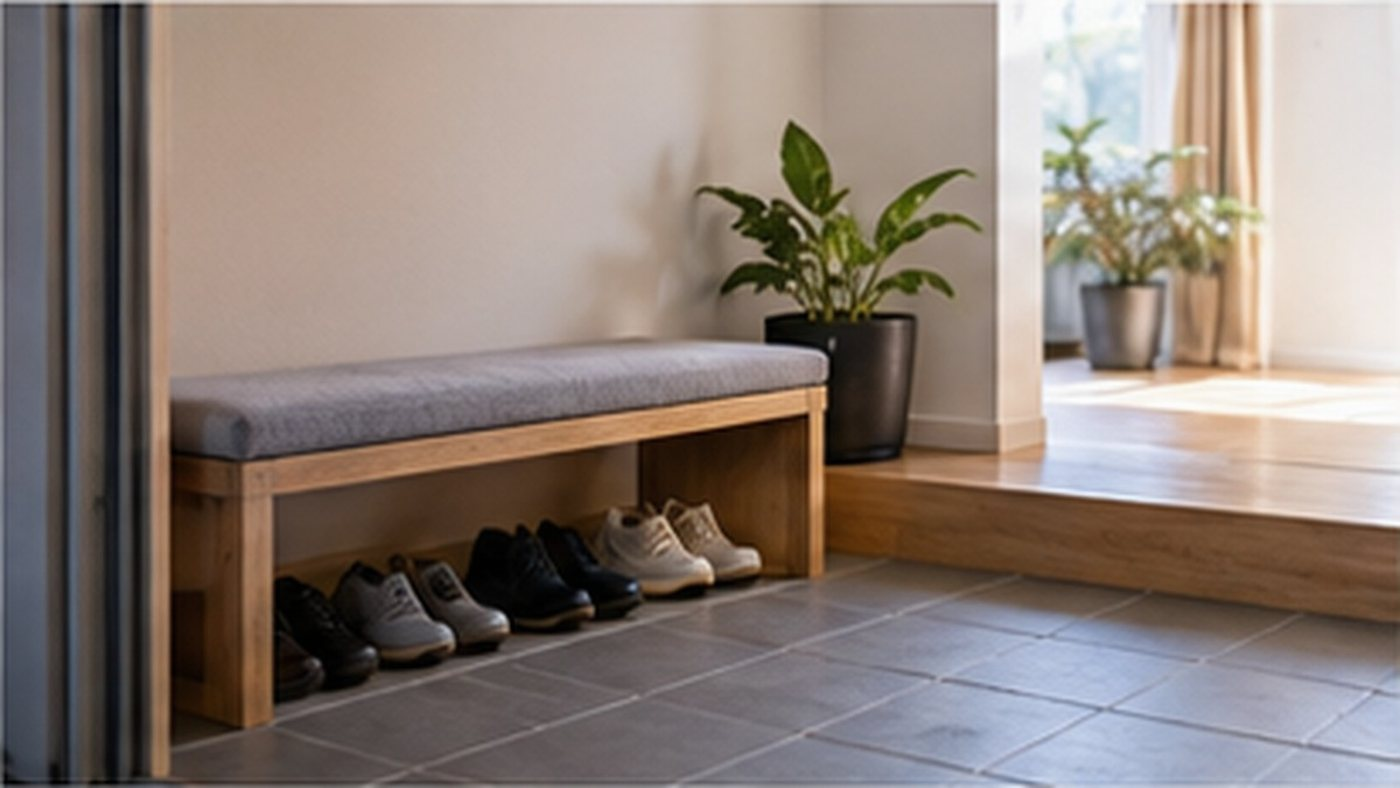
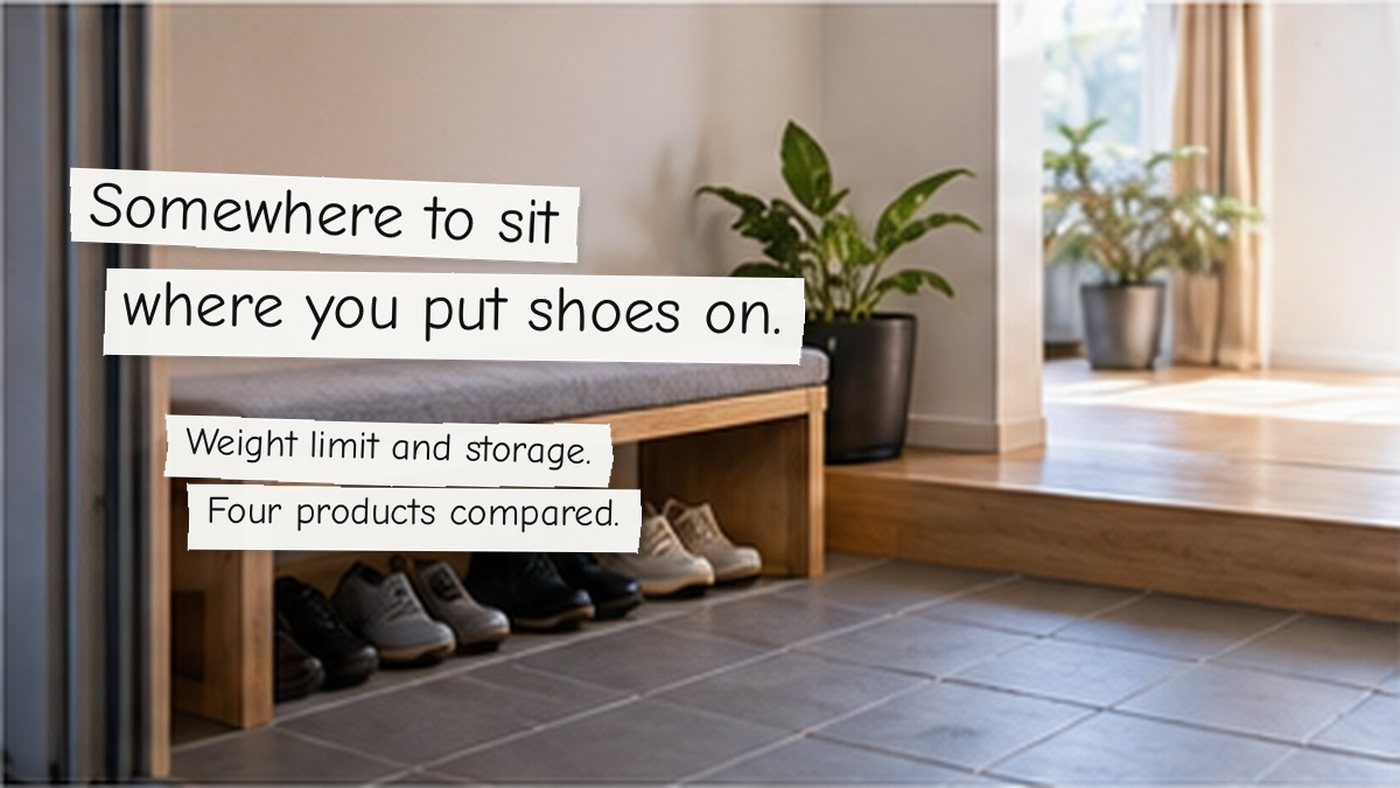
英語版のヒーローを、英語キャッチコピー入り画像に差し替え
C-BLOG-005 の成果物17枚を受領して適用。日本語側と同じ形にそろえた。

- hero-en.jpg 17枚を差し替え、HTMLのコピー重ね表示を削除して alt に移動
- 英文は指示書の表と一字一句一致していることを確認（全17枚を目視）
- 日本語の残りなし・実在ブランドなしも確認

⚠ ChatGPTは「既存の写真を使い回す」という指示に従わず、写真を作り直した。
17枚すべて別の構図になっている。被写体・トーン・品質は日本語版とそろっている
ので実害は「日英を切り替えると写真が変わる」ことだけ。作り直させるとオーナーに
もう1往復かけることになるため、そのまま採用してよいかは判断を仰ぐ。

検査: check-article.py を34ファイルすべてで実行し、全通過。

Claude-Session: https://claude.ai/code/session_018DjcCGqWvG9fnwShRfWehG

Changed region(s): [[0.0307, 0.2132, 0.5836, 0.4873], [0.0921, 0.5178, 0.4607, 0.7005]]

diff --git a/en/articles/genkan-tsupparirack-hikaku.html b/en/articles/genkan-tsupparirack-hikaku.html
@@ -72,8 +72,7 @@
       <p class="article-lead">Comparing entryway tension rod racks by supported height range, weight capacity, and whether drilling is required.</p>
     </div>    <section class="article-hero">
       <div class="article-hero-main">
-        <img src="/assets/articles/genkan-tsupparirack-hikaku/hero-en.jpg" data-photo-source="generated-ok" alt="A floor-to-ceiling tension rack in an entryway, with coats hanging on it" width="1400" height="788">
-        <p class="article-hero-copy">Entryway Tension Rod Rack — Choosing by Ceiling Height and Weight Capacity<small>Heian Shindo RA-11 · Yamazen WJ-321RM Shoe Rack · Hagihara KTR-3148 (80cm wide) · Wall Storage Tension Rack (Width 40/60/80cm)</small></p>
+        <img src="/assets/articles/genkan-tsupparirack-hikaku/hero-en.jpg" data-photo-source="generated-ok" alt="The entryway wall is still empty. Ceiling height and load. Four products compared." width="1400" height="788">
       </div>
       <div class="article-hero-side">
         <div class="article-hero-mini">

diff --git a/en/articles/monohoshi-rack-hikaku.html b/en/articles/monohoshi-rack-hikaku.html
@@ -72,8 +72,7 @@
       <p class="article-lead">Comparing indoor drying racks across folding tower, tension-rod pole-holder, folding panel, and large-capacity multi-function styles.</p>
     </div>    <section class="article-hero">
       <div class="article-hero-main">
-        <img src="/assets/articles/monohoshi-rack-hikaku/hero-en.jpg" data-photo-source="generated-ok" alt="Laundry drying indoors in the light from a window" width="1400" height="788">
-        <p class="article-hero-copy">Indoor Drying Rack — Choosing by Weight Capacity and Storability<small>Yamazaki Jitsugyo Tower 6619 · Heian Shindo TMH-61 · Tenma Panel S (Amazon exclusive) · Iris Ohyama KTM-2018R</small></p>
+        <img src="/assets/articles/monohoshi-rack-hikaku/hero-en.jpg" data-photo-source="generated-ok" alt="Open it on laundry day, fold it away after. Load capacity and folding. Four products compared." width="1400" height="788">
       </div>
       <div class="article-hero-side">
         <div class="article-hero-mini">

diff --git a/en/articles/closet-storage-case-hikaku.html b/en/articles/closet-storage-case-hikaku.html
@@ -72,8 +72,7 @@
       <p class="article-lead">Comparing closet storage cases across hard plastic drawer, foldable container, and non-woven soft types, focusing on stackability.</p>
     </div>    <section class="article-hero">
       <div class="article-hero-main">
-        <img src="/assets/articles/closet-storage-case-hikaku/hero-en.jpg" data-photo-source="generated-ok" alt="Inside a closet, with folded clothes and stacked storage cases" width="1400" height="788">
-        <p class="article-hero-copy">Closet Storage Case — Choosing by Stackability and Ease of Access<small>Tenma Fits Case L-53 · Iris Ohyama BC-L · Yamazen SFOB-S(CG) · Astro 171-44</small></p>
+        <img src="/assets/articles/closet-storage-case-hikaku/hero-en.jpg" data-photo-source="generated-ok" alt="Stacks well, opens well. You need both. Stacking and access. Four products compared." width="1400" height="788">
       </div>
       <div class="article-hero-side">
         <div class="article-hero-mini">

diff --git a/en/articles/mattress-hikaku.html b/en/articles/mattress-hikaku.html
@@ -72,8 +72,7 @@
       <p class="article-lead">Comparing mattresses by firmness and sleep feel, thickness and durability of the construction, and how generous the warranty or trial period is.</p>
     </div>    <section class="article-hero">
       <div class="article-hero-main">
-        <img src="/assets/articles/mattress-hikaku/hero-en.jpg" data-photo-source="generated-ok" alt="A made bed in a bedroom filled with morning light" width="1400" height="788">
-        <p class="article-hero-copy">Mattress — Choosing by Sleep Feel and Durability<small>Novilla Black Knight · GOKUMIN Premium Spring Mattress · Koala Original · ZINUS BASIC Mattress</small></p>
+        <img src="/assets/articles/mattress-hikaku/hero-en.jpg" data-photo-source="generated-ok" alt="Comfort is taste. Sagging is fact. Firmness, thickness, structure. Four products compared." width="1400" height="788">
       </div>
       <div class="article-hero-side">
         <div class="article-hero-mini">

diff --git a/en/articles/denki-kettle-hikaku.html b/en/articles/denki-kettle-hikaku.html
@@ -72,8 +72,7 @@
       <p class="article-lead">Comparing electric kettles by capacity, temperature control, and ease of pouring.</p>
     </div>    <section class="article-hero">
       <div class="article-hero-main">
-        <img src="/assets/articles/denki-kettle-hikaku/hero-en.jpg" data-photo-source="generated-ok" alt="A kettle steaming in a morning kitchen, a mug beside it" width="1400" height="788">
-        <p class="article-hero-copy">Electric Kettle — Choosing by Pour Control and Keep-Warm Function<small>T-fal Justin Lock KO5903JPA · Tiger Steam Save PCT-N120 · Yamazen Electric Kettle EGL-C1281(BB) · Iris Ohyama IKEB800W</small></p>
+        <img src="/assets/articles/denki-kettle-hikaku/hero-en.jpg" data-photo-source="generated-ok" alt="Used every day, so pick it for the pour. Capacity, temperature, pouring. Four products compared." width="1400" height="788">
       </div>
       <div class="article-hero-side">
         <div class="article-hero-mini">

diff --git a/en/articles/joshitsuki-hikaku.html b/en/articles/joshitsuki-hikaku.html
@@ -72,8 +72,7 @@
       <p class="article-lead">Comparing dehumidifiers by dehumidifying method, capacity, and ease of maintenance.</p>
     </div>    <section class="article-hero">
       <div class="article-hero-main">
-        <img src="/assets/articles/joshitsuki-hikaku/hero-en.jpg" data-photo-source="generated-ok" alt="A dehumidifier by a condensation-covered window, laundry drying behind it" width="1400" height="788">
-        <p class="article-hero-copy">Dehumidifier — Choosing by Dehumidifying Method and Ease of Maintenance<small>Yamazen EDC-H601(B) · AEOCKY 40L/day Powerful Dehumidifier · Sharp KI-TD50-W · Yamazen YDC-J03(W)</small></p>
+        <img src="/assets/articles/joshitsuki-hikaku/hero-en.jpg" data-photo-source="generated-ok" alt="Indoor laundry that actually dries. Dehumidifying type and upkeep. Four products compared." width="1400" height="788">
       </div>
       <div class="article-hero-side">
         <div class="article-hero-mini">

diff --git a/en/articles/desk-light-hikaku.html b/en/articles/desk-light-hikaku.html
@@ -72,8 +72,7 @@
       <p class="article-lead">Comparing desk lamps by clamp-mount, stand, and monitor-mount styles, plus brightness and color temperature.</p>
     </div>    <section class="article-hero">
       <div class="article-hero-main">
-        <img src="/assets/articles/desk-light-hikaku/hero-en.jpg" data-photo-source="generated-ok" alt="A desk light casting a pool of light over an open notebook at night" width="1400" height="788">
-        <p class="article-hero-copy">Desk Lamp — Choosing by Brightness and Color Temperature<small>BenQ ScreenBar Pro · Yamada Lighting Z-10RB · Lepro · Iris Ohyama PDL-101-W</small></p>
+        <img src="/assets/articles/desk-light-hikaku/hero-en.jpg" data-photo-source="generated-ok" alt="Light your hands, at the right level. Brightness and colour range. Four products compared." width="1400" height="788">
       </div>
       <div class="article-hero-side">
         <div class="article-hero-mini">

diff --git a/en/articles/robot-vacuum-hikaku.html b/en/articles/robot-vacuum-hikaku.html
@@ -72,8 +72,7 @@
       <p class="article-lead">Comparing robot vacuums by suction power, auto dust collection, and mopping support.</p>
     </div>    <section class="article-hero">
       <div class="article-hero-main">
-        <img src="/assets/articles/robot-vacuum-hikaku/hero-en.jpg" data-photo-source="generated-ok" alt="A robot vacuum crossing an empty living-room floor" width="1400" height="788">
-        <p class="article-hero-copy">Robot Vacuum — Choosing by Suction Power and Maintenance Effort<small>dreame F20 Plus · ECOVACS DEEBOT T50S OMNI · Anker Eufy Robot Vacuum Auto-Empty C10 · Lefant M210 Pro</small></p>
+        <img src="/assets/articles/robot-vacuum-hikaku/hero-en.jpg" data-photo-source="generated-ok" alt="Meant to save work - is it making more? Suction and maintenance. Four products compared." width="1400" height="788">
       </div>
       <div class="article-hero-side">
         <div class="article-hero-mini">

diff --git a/en/articles/kitchen-gomibako-hikaku.html b/en/articles/kitchen-gomibako-hikaku.html
@@ -72,8 +72,7 @@
       <p class="article-lead">Comparing kitchen trash cans by pedal, flap, and sorting-drawer lid mechanisms and capacity.</p>
     </div>    <section class="article-hero">
       <div class="article-hero-main">
-        <img src="/assets/articles/kitchen-gomibako-hikaku/hero-en.jpg" data-photo-source="generated-ok" alt="Lidded bins lined up in a corner of a kitchen" width="1400" height="788">
-        <p class="article-hero-copy">Kitchen Trash Can — Choosing by Lid Mechanism and Sorting Ease<small>Iris Plaza AFB-C12DBR · Like-it BS-3 · ideaco TUBELOR kitchen flap · SONGMICS Pedal 3-Sort</small></p>
+        <img src="/assets/articles/kitchen-gomibako-hikaku/hero-en.jpg" data-photo-source="generated-ok" alt="How the lid opens changes the kitchen. Lid type and sorting. Four products compared." width="1400" height="788">
       </div>
       <div class="article-hero-side">
         <div class="article-hero-mini">

diff --git a/en/articles/cordless-vacuum-hikaku.html b/en/articles/cordless-vacuum-hikaku.html
@@ -72,8 +72,7 @@
       <p class="article-lead">Comparing cordless vacuums by suction power, runtime, and ease of maintenance.</p>
     </div>    <section class="article-hero">
       <div class="article-hero-main">
-        <img src="/assets/articles/cordless-vacuum-hikaku/hero-en.jpg" data-photo-source="generated-ok" alt="A cordless vacuum part-way through cleaning a wooden floor" width="1400" height="788">
-        <p class="article-hero-copy">Cordless Vacuum — Choosing by Suction Power and Runtime<small>Makita CL108FDSHW · Dyson V8 Fluffy · Sharp EC-FR9-B · Iris Ohyama MagiCaleena AZ-SCD-123P-W</small></p>
+        <img src="/assets/articles/cordless-vacuum-hikaku/hero-en.jpg" data-photo-source="generated-ok" alt="Not just suction - suction that lasts. Suction power and runtime. Four products compared." width="1400" height="788">
       </div>
       <div class="article-hero-side">
         <div class="article-hero-mini">

diff --git a/en/articles/genkan-bench-hikaku.html b/en/articles/genkan-bench-hikaku.html
@@ -72,8 +72,7 @@
       <p class="article-lead">Comparing entryway storage benches by seat weight capacity, storage volume, and size.</p>
     </div>    <section class="article-hero">
       <div class="article-hero-main">
-        <img src="/assets/articles/genkan-bench-hikaku/hero-en.jpg" data-photo-source="generated-ok" alt="A bench in an entryway, with shoes tucked underneath" width="1400" height="788">
-        <p class="article-hero-copy">Entryway Storage Bench — Choosing by Weight Capacity and Storage Volume<small>Yamazen KGBR-5045 · SoBuy FSR47-N · SONGMICS LBS57GYZ · Tribesigns 140cm wide</small></p>
+        <img src="/assets/articles/genkan-bench-hikaku/hero-en.jpg" data-photo-source="generated-ok" alt="Somewhere to sit where you put shoes on. Weight limit and storage. Four products compared." width="1400" height="788">
       </div>
       <div class="article-hero-side">
         <div class="article-hero-mini">

diff --git a/en/articles/air-purifier-hikaku.html b/en/articles/air-purifier-hikaku.html
@@ -72,8 +72,7 @@
       <p class="article-lead">Comparing air purifiers by room coverage, filtration performance, and ease of maintenance.</p>
     </div>    <section class="article-hero">
       <div class="article-hero-main">
-        <img src="/assets/articles/air-purifier-hikaku/hero-en.jpg" data-photo-source="generated-ok" alt="An air purifier standing by a sunlit living-room window" width="1400" height="788">
-        <p class="article-hero-copy">Air Purifier — Choosing by Room Coverage and Filtration Performance<small>Sharp KC-J50C-H · Daikin MC556A-W · Levoit Core P350 · Iris Ohyama AAP-S30C-W</small></p>
+        <img src="/assets/articles/air-purifier-hikaku/hero-en.jpg" data-photo-source="generated-ok" alt="First: does it match your room size? Coverage and filtration. Four products compared." width="1400" height="788">
       </div>
       <div class="article-hero-side">
         <div class="article-hero-mini">
